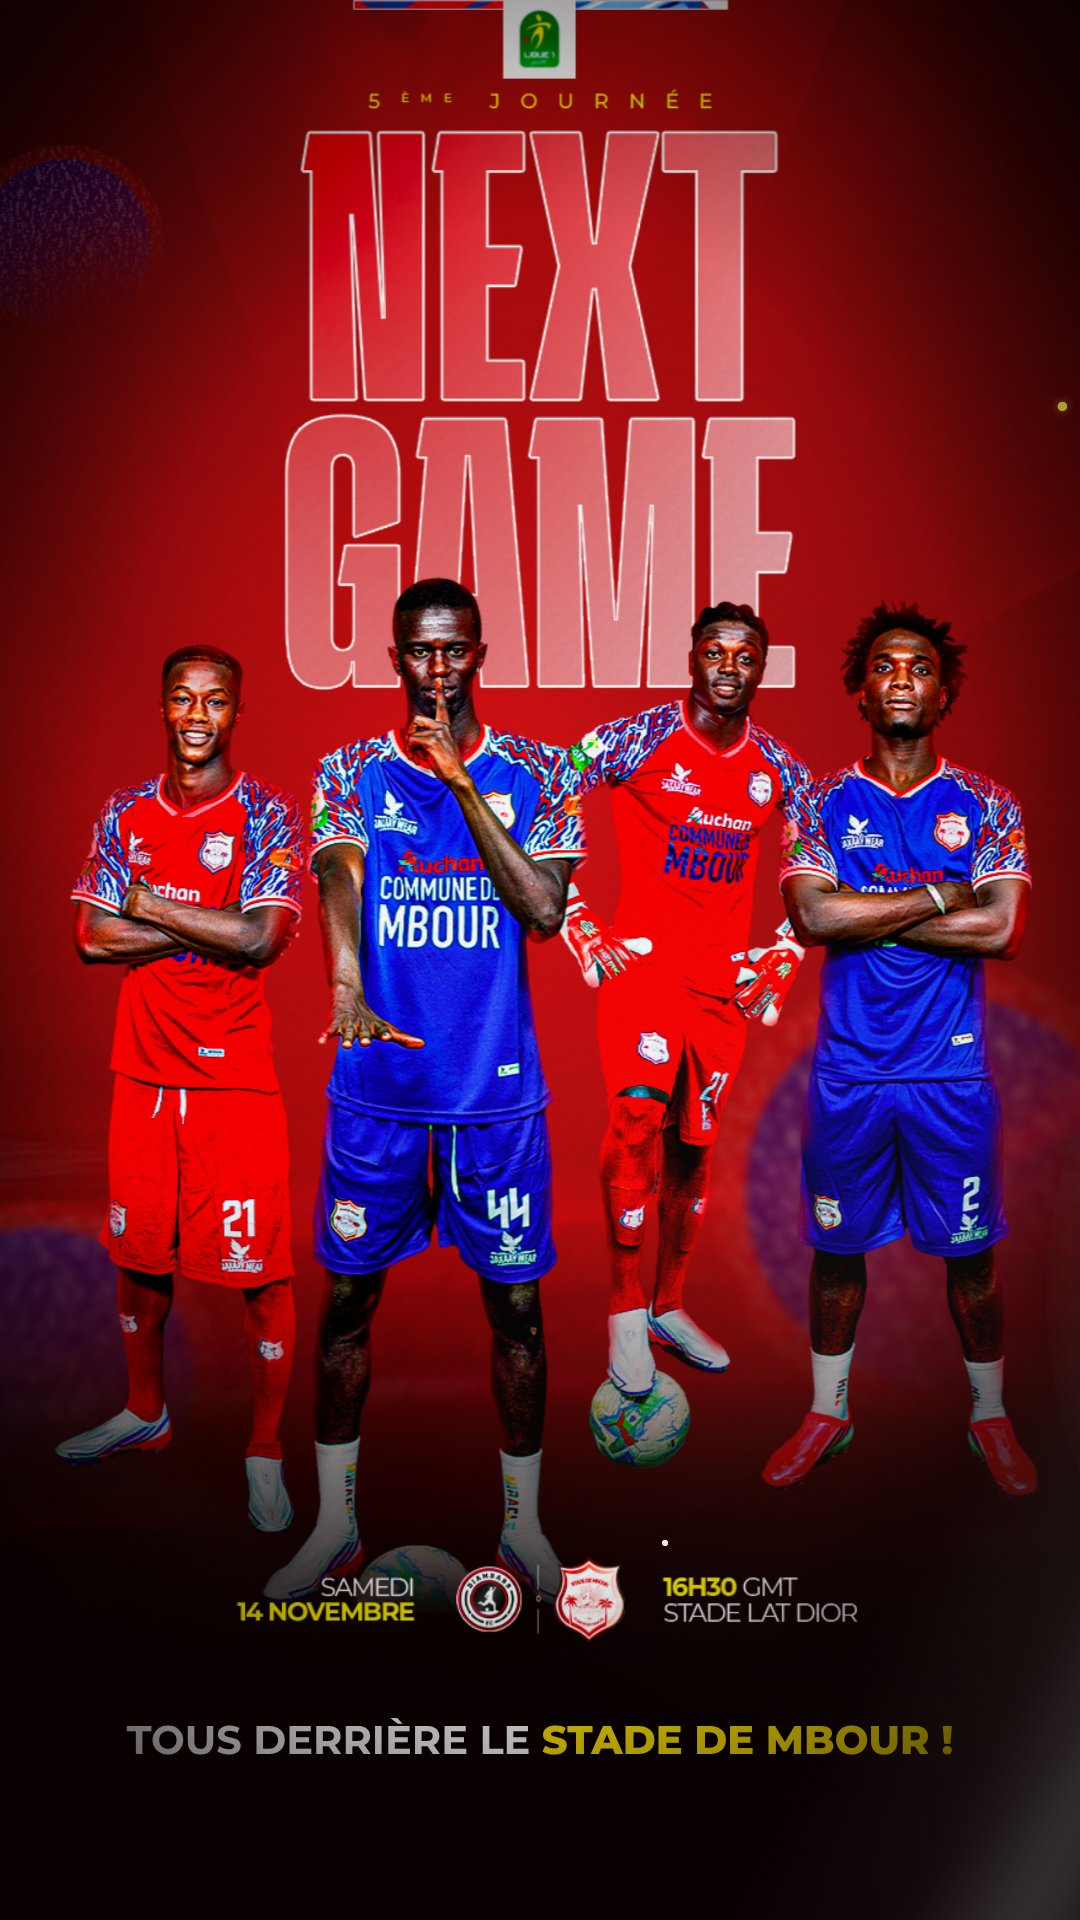
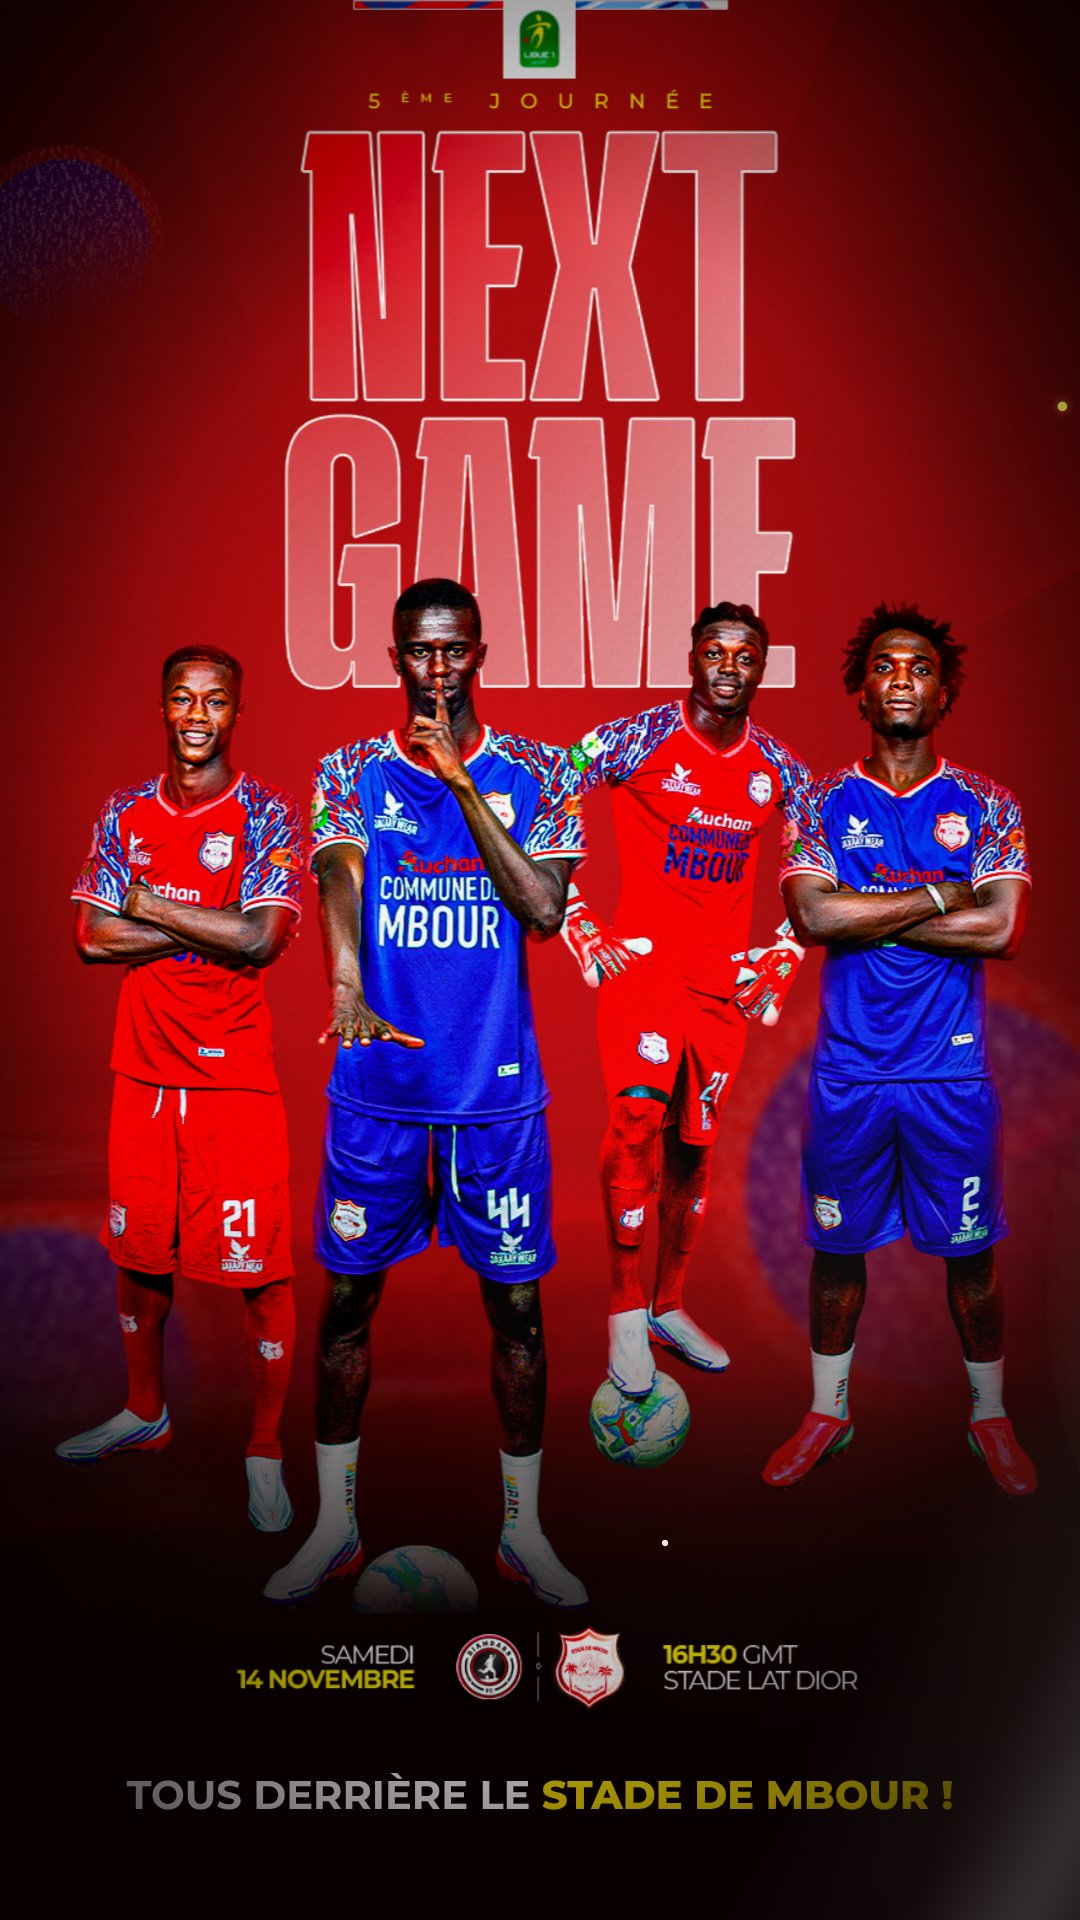
Plan 25-30 s : infos descendues
Claude-Session: https://claude.ai/code/session_01CJgvnF5VURsKT4vojm1dRz

Changed region(s): [[0.1222, 0.8125, 0.8861, 0.9688]]

diff --git a/src/index.html b/src/index.html
@@ -86,7 +86,7 @@ body{font-family:MS,sans-serif;color:#fff;-webkit-font-smoothing:antialiased}
 #r3 .big{color:#fff;font-size:76px}
 
 /* seq 5 : slogan under the poster */
-#slogan{left:0;top:1720px;width:1080px;text-align:center;font:700 40px/1 MS;color:#fff;white-space:nowrap}
+#slogan{left:0;top:1775px;width:1080px;text-align:center;font:700 40px/1 MS;color:#fff;white-space:nowrap}
 #slogan b{color:var(--yellow);font-weight:800}
 </style>
 </head>
@@ -350,14 +350,14 @@ tl.fromTo('#pSph',{autoAlpha:0,scale:.3},{autoAlpha:1,scale:1,duration:.5,ease:E
 tl.fromTo('#pBand',{autoAlpha:0,scaleX:0},{autoAlpha:1,scaleX:1,duration:.45,ease:E.in},25.35);
 tl.fromTo('#pL1',{autoAlpha:0,y:-70},{autoAlpha:1,y:0,duration:.45,ease:E.in},25.45);
 tl.fromTo('#p5',{autoAlpha:0,clipPath:'inset(0 50% 0 50%)'},{autoAlpha:1,clipPath:'inset(0 0% 0 0%)',duration:.5,ease:E.in},25.6);
-tl.fromTo('#pClubs',{autoAlpha:0,scale:0,y:120},{autoAlpha:1,scale:1,y:120,duration:.45,ease:E.back},25.85);
-tl.fromTo('#pDate',{autoAlpha:0,x:-120,y:120},{autoAlpha:1,x:0,y:120,duration:.45,ease:E.in},26.05);
-tl.fromTo('#pTime',{autoAlpha:0,x:120,y:120},{autoAlpha:1,x:0,y:120,duration:.45,ease:E.in},26.3);
+tl.fromTo('#pClubs',{autoAlpha:0,scale:0,y:175},{autoAlpha:1,scale:1,y:175,duration:.45,ease:E.back},25.85);
+tl.fromTo('#pDate',{autoAlpha:0,x:-120,y:175},{autoAlpha:1,x:0,y:175,duration:.45,ease:E.in},26.05);
+tl.fromTo('#pTime',{autoAlpha:0,x:120,y:175},{autoAlpha:1,x:0,y:175,duration:.45,ease:E.in},26.3);
 tl.set('#slogan',{autoAlpha:1},26.9);
 tl.fromTo('#slogan',{opacity:0,y:40,filter:'blur(10px)'},{opacity:1,y:0,filter:'blur(0px)',duration:.5,ease:E.in},26.9);
 tl.to('#team',{x:540-540*1.23,y:0,scale:1.23,duration:4.3,ease:'none'},25.7);
 tl.to('#flashR',{opacity:.8,duration:.04},28.5).to('#flashR',{opacity:0,duration:.7},28.54);
-tl.set(FX,{sparkT:28.5,sparkX:540,sparkY:1740},28.4);
+tl.set(FX,{sparkT:28.5,sparkX:540,sparkY:1795},28.4);
 tl.fromTo('#slogan',{scale:1},{scale:1.06,duration:.12,yoyo:true,repeat:1,ease:'power2.out'},28.5);
 tl.to('#world',{x:7,duration:.04,yoyo:true,repeat:5,ease:'none'},28.5);
 tl.set({},{},30);
